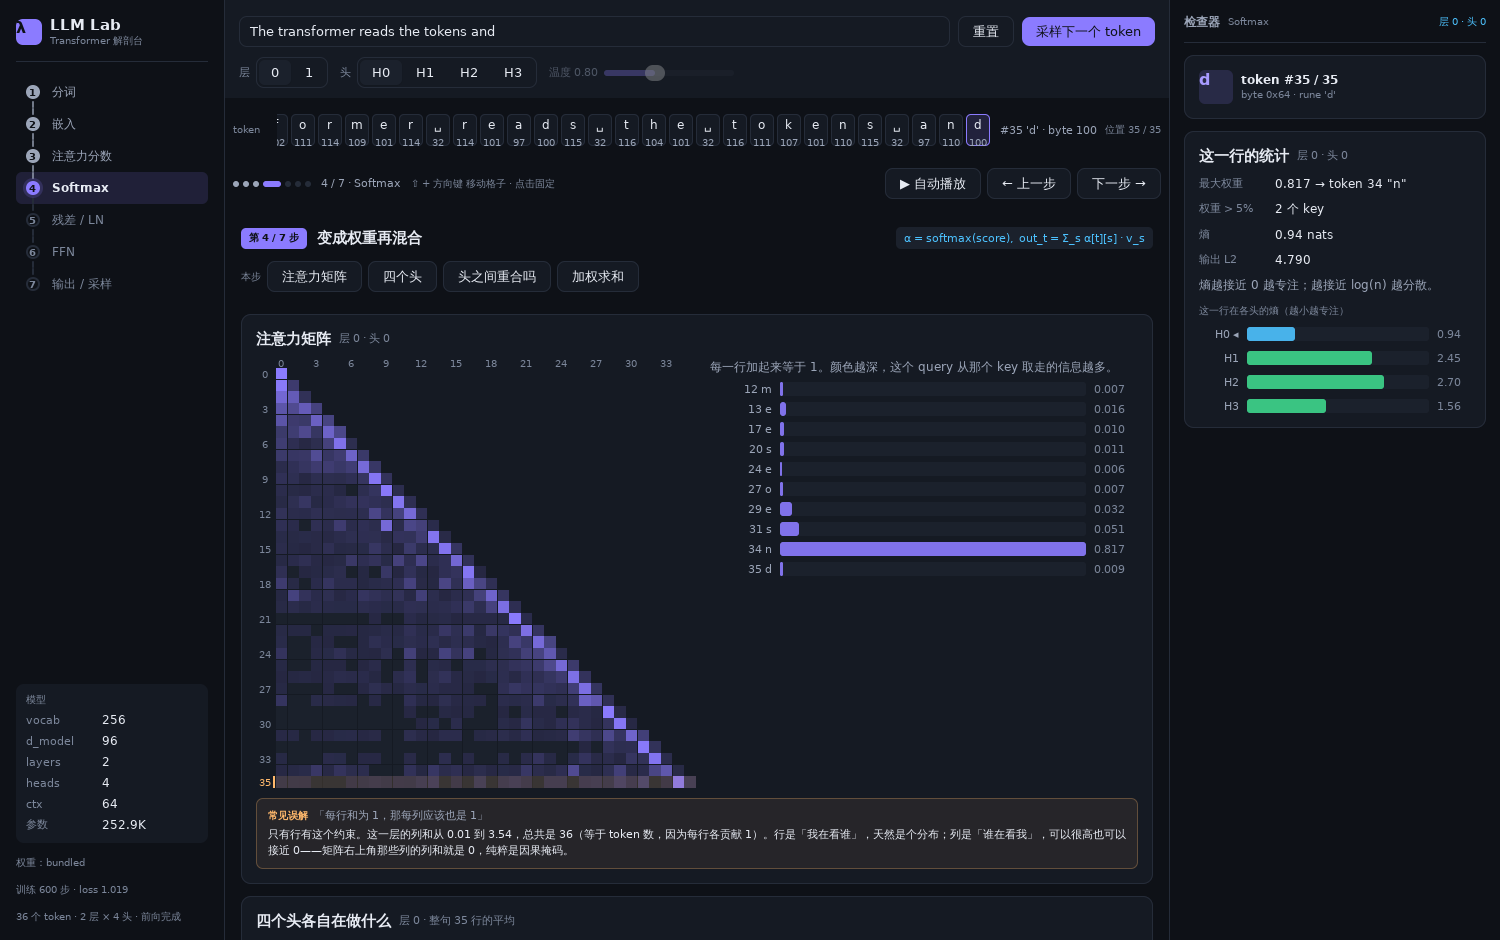
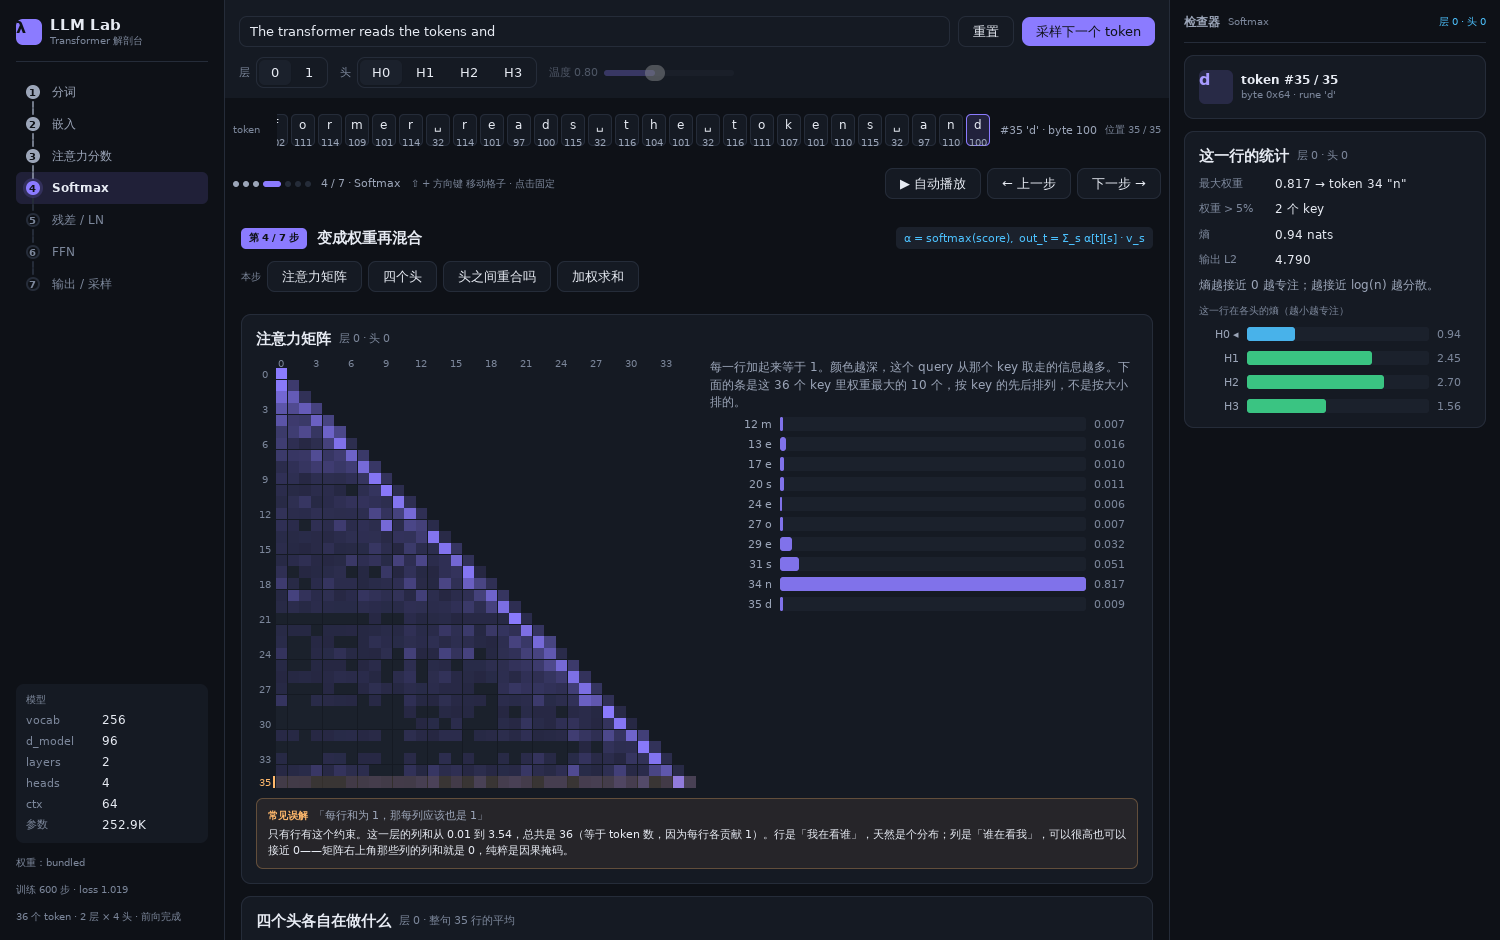
fix(app): say what the attention bar list is a sample of
The bars beside the attention heatmap show at most ten entries, and topBars keeps the ten largest
then restores key order — so on a long row the list is neither the whole row nor sorted by size.
Measured with 35 keys: ten bars against a 35-cell heatmap row, with 0.073 drawn above 0.419.

The behaviour is right. Restoring key order is what lets a reader match a bar to a column. What was
missing is that nothing said any of it: the caption read only "每一行加起来等于 1。颜色越深，这个
query 从那个 key 取走的信息越多", so a reader comparing bars to cells has no account of why there
are fewer of one than the other, or why the biggest bar is not at the top.

Rows longer than ten now say which ten and in what order. Shorter rows keep the original caption,
since they draw every key.

TestAttentionBarsDiscloseTheirSample asserts both directions: a long row must disclose the sample
and its ordering, and a short row must not call itself a sample — a caption that always mentioned
"the ten largest" would be wrong on every row short enough to be shown whole.

Verified by restoring the old caption: "a 36-key row draws only 10 bars but the caption does not say
36 个 key".

docs/attention.png regenerated; the only image that changed, matching a caption on stage 4.

Also checked three truncation counts while looking at the same screen — ascii 100 to 64, CJK 120 to
63, and a multibyte character at the tail 65 to 64. All three are correct and were left alone.

Changed region(s): [[0.46, 0.4011, 0.7667, 0.6479]]

diff --git a/internal/app/inspector_test.go b/internal/app/inspector_test.go
@@ -212,3 +212,57 @@ func TestDistributionCardNamesItsPosition(t *testing.T) {
 		}
 	}
 }
+
+// TestAttentionBarsDiscloseTheirSample checks the bar list beside the attention heatmap says what it
+// is a sample of.
+//
+// The list shows at most ten bars, and topBars keeps the ten largest then restores key order — so
+// on a long prompt it is neither the whole row nor sorted by size. Measured with 35 keys: ten bars
+// against a 35-cell heatmap row, with 0.073 drawn above 0.419. Neither the truncation nor the
+// ordering was mentioned, which leaves a reader comparing the two views with no account of the
+// difference.
+//
+// The assertion is conditional on the row being long enough to truncate, and checks the short case
+// is left alone: a caption that always talks about "the ten largest" would be wrong on every row
+// short enough to be shown whole.
+func TestAttentionBarsDiscloseTheirSample(t *testing.T) {
+	long := newTestApp(t)
+	long.Step = 3
+	long.SelToken = len(long.Trace.Tokens) - 1
+	tr := ui.NewTester(long.View, 1500, 3000)
+	tr.Frame()
+
+	var caption string
+	for _, s := range tr.Texts() {
+		if strings.Contains(s, "加起来等于 1") {
+			caption = s
+		}
+	}
+	if caption == "" {
+		t.Fatal("the attention row caption is missing")
+	}
+	if n := long.SelToken + 1; n > 10 {
+		for _, want := range []string{fmt.Sprintf("%d 个 key", n), "最大的 10 个", "不是按大小排"} {
+			if !strings.Contains(caption, want) {
+				t.Fatalf("a %d-key row draws only 10 bars but the caption does not say %q: %q",
+					n, want, caption)
+			}
+		}
+	}
+
+	// A short row shows every key, so it must not claim to be a sample.
+	short := newTestApp(t)
+	short.Step = 3
+	short.SelToken = 4
+	tr2 := ui.NewTester(short.View, 1500, 3000)
+	tr2.Frame()
+	for _, s := range tr2.Texts() {
+		if !strings.Contains(s, "加起来等于 1") {
+			continue
+		}
+		if strings.Contains(s, "最大的 10 个") {
+			t.Fatalf("a %d-key row is drawn whole but the caption calls it a sample: %q",
+				short.SelToken+1, s)
+		}
+	}
+}

diff --git a/internal/app/stages.go b/internal/app/stages.go
@@ -857,7 +857,17 @@ func (a *App) stageSoftmax(c *ui.Context) {
 				a.heatmapAxed(c, h.Attn, "attn", true)
 			})
 			ui.Column(c).Gap(6).Grow(1).MaxWidth(480).Children(func() {
-				mutedText(c, "每一行加起来等于 1。颜色越深，这个 query 从那个 key 取走的信息越多。")
+				// The bars are a sample of the row, and the caption has to say so. topBars keeps
+				// the ten largest weights and restores their original order, so on a long prompt
+				// the list is neither the whole row nor sorted by size: measured with 35 keys, a
+				// reader counted ten bars against a 35-cell heatmap row and saw 0.073 above
+				// 0.419. Neither the truncation nor the ordering was stated.
+				rowCaption := "每一行加起来等于 1。颜色越深，这个 query 从那个 key 取走的信息越多。"
+				if i+1 > 10 {
+					rowCaption = fmt.Sprintf("每一行加起来等于 1。颜色越深，这个 query 从那个 key 取走的信息越多。"+
+						"下面的条是这 %d 个 key 里权重最大的 10 个，按 key 的先后排列，不是按大小排的。", i+1)
+				}
+				mutedText(c, rowCaption)
 				rows := make([]barRow, 0, 8)
 				var max float32
 				for j := 0; j <= i; j++ {

diff --git a/CHANGELOG.md b/CHANGELOG.md
@@ -6,6 +6,15 @@
 
 ### Added
 
+- **注意力热力图旁边的条形图只画 10 条，但说明里一个字没提；而且它是按 key 先后排的，不是按大小排的。** 35 个 key 的行里读者会看到 10 条对着热力图的 35 格，且 `0.073` 画在 `0.419` 上面
+  - 行为本身是对的：`topBars` 取最大的 10 个再**恢复原来的顺序**（它的注释写明了），所以坐标轴能对上热力图的列
+  - 缺陷在于**没告诉读者**：说明只有「每一行加起来等于 1。颜色越深，这个 query 从那个 key 取走的信息越多」
+  - 修法：行长超过 10 时补一句「下面的条是这 N 个 key 里权重最大的 10 个，按 key 的先后排列，不是按大小排的」。短行保持原样
+  - `TestAttentionBarsDiscloseTheirSample` **双向**断言：长行必须说明取样与排序，短行**不许**说成取样（否则每行都提「最大的 10 个」对整行显示的行就是错的）
+  - 破坏性验证：改回原说明 → `a 36-key row draws only 10 bars but the caption does not say "36 个 key"`
+  - 重新生成 `docs/attention.png`（只有这一张变，与「第 4 步的说明改了」一致）
+  - 又是看图找到的。这一轮还顺带核了三处截断计数（ASCII 100→64、CJK 120→63、多字节在尾部 65→64），**都是对的**，未动
+
 - **两个单 token 提示词下的界面缺陷，都是看截图找到的。**
   - **熵说明指向一行不存在的行**：一行提示词时检查器说「第 0 行只能看到它自己，四个头的熵必然都是 0——**从第 1 行起**才有可比较的分配」，而这个 trace 只有第 0 行，第 1 行永远不会出现。改成单 token 时如实说「这个提示词只有一个 token，没有第 1 行——熵和头与头的比较都要再多几个字才谈得上」
   - **状态栏写「1 tokens」**：一行里其余部分是中文、用「2 层 × 4 头」这种量词计数，只有 token 用了英文复数，于是单个 token 时印出语法错误的 `1 tokens`。改成「1 个 token」，与整行一致
